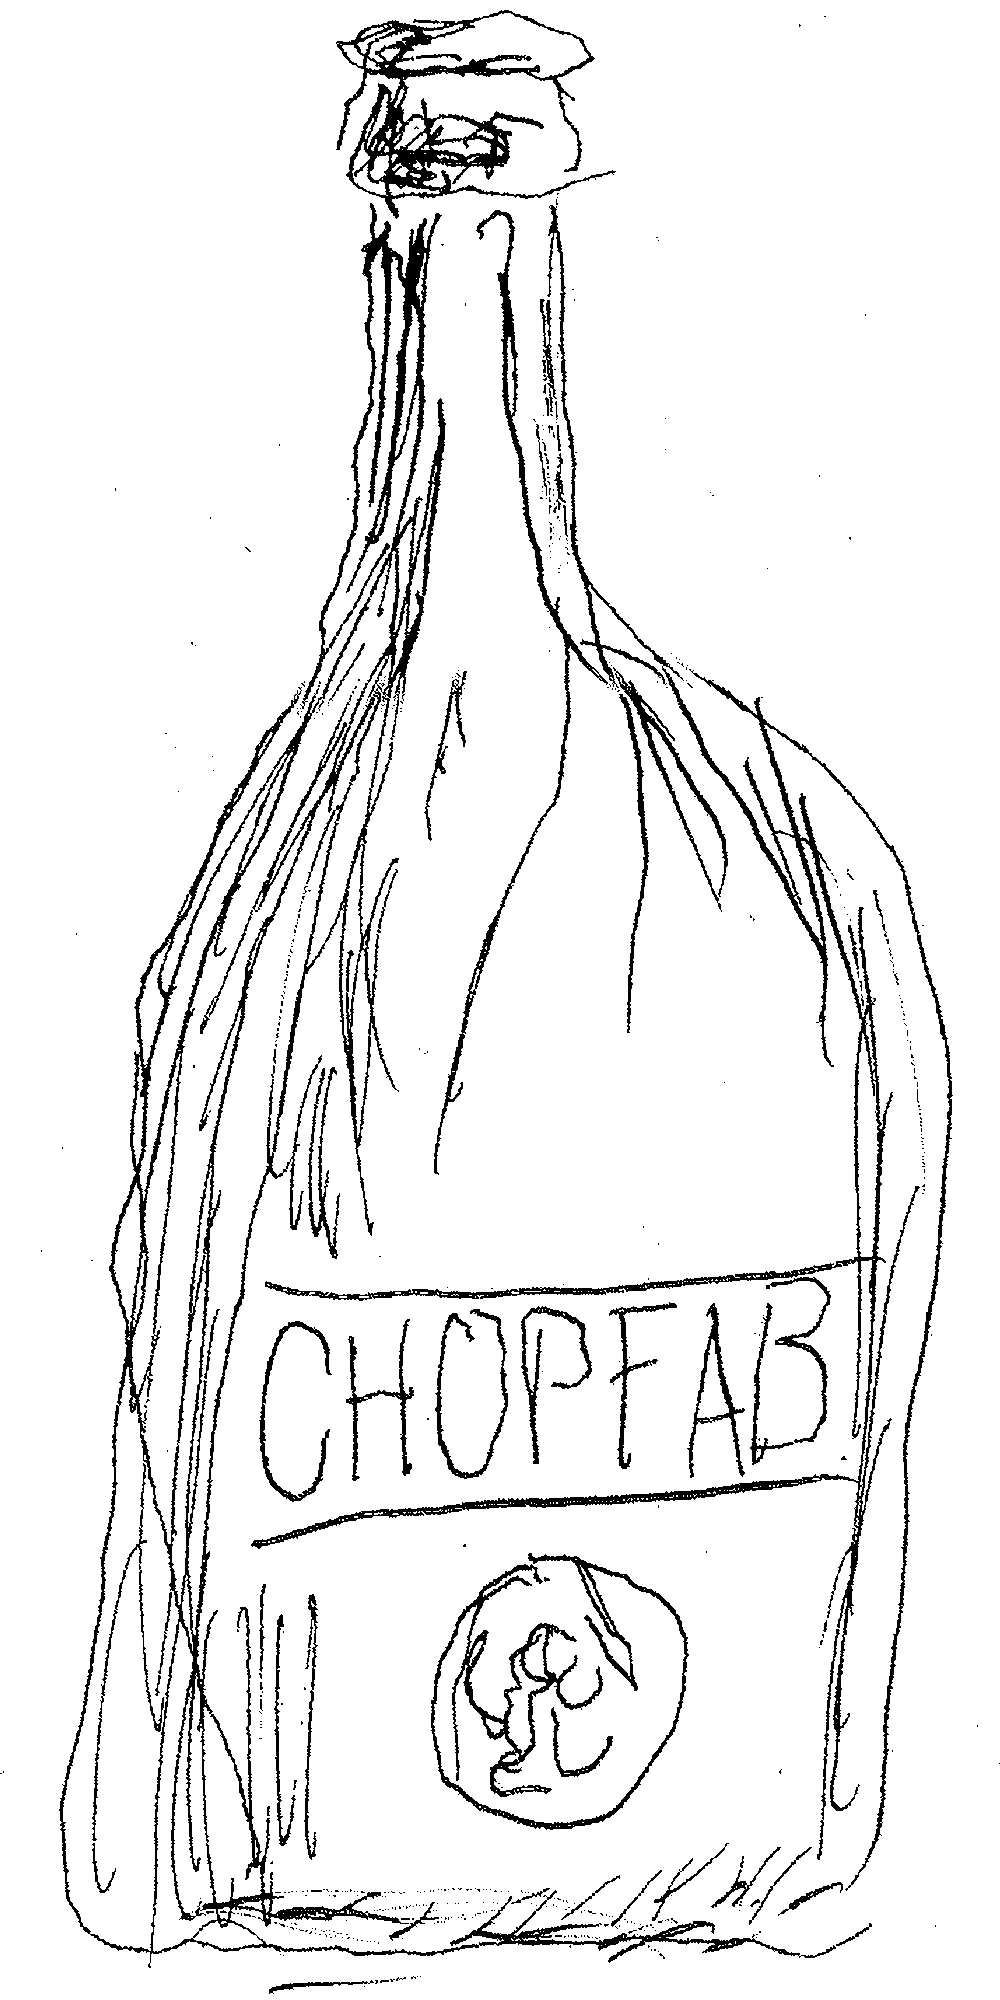
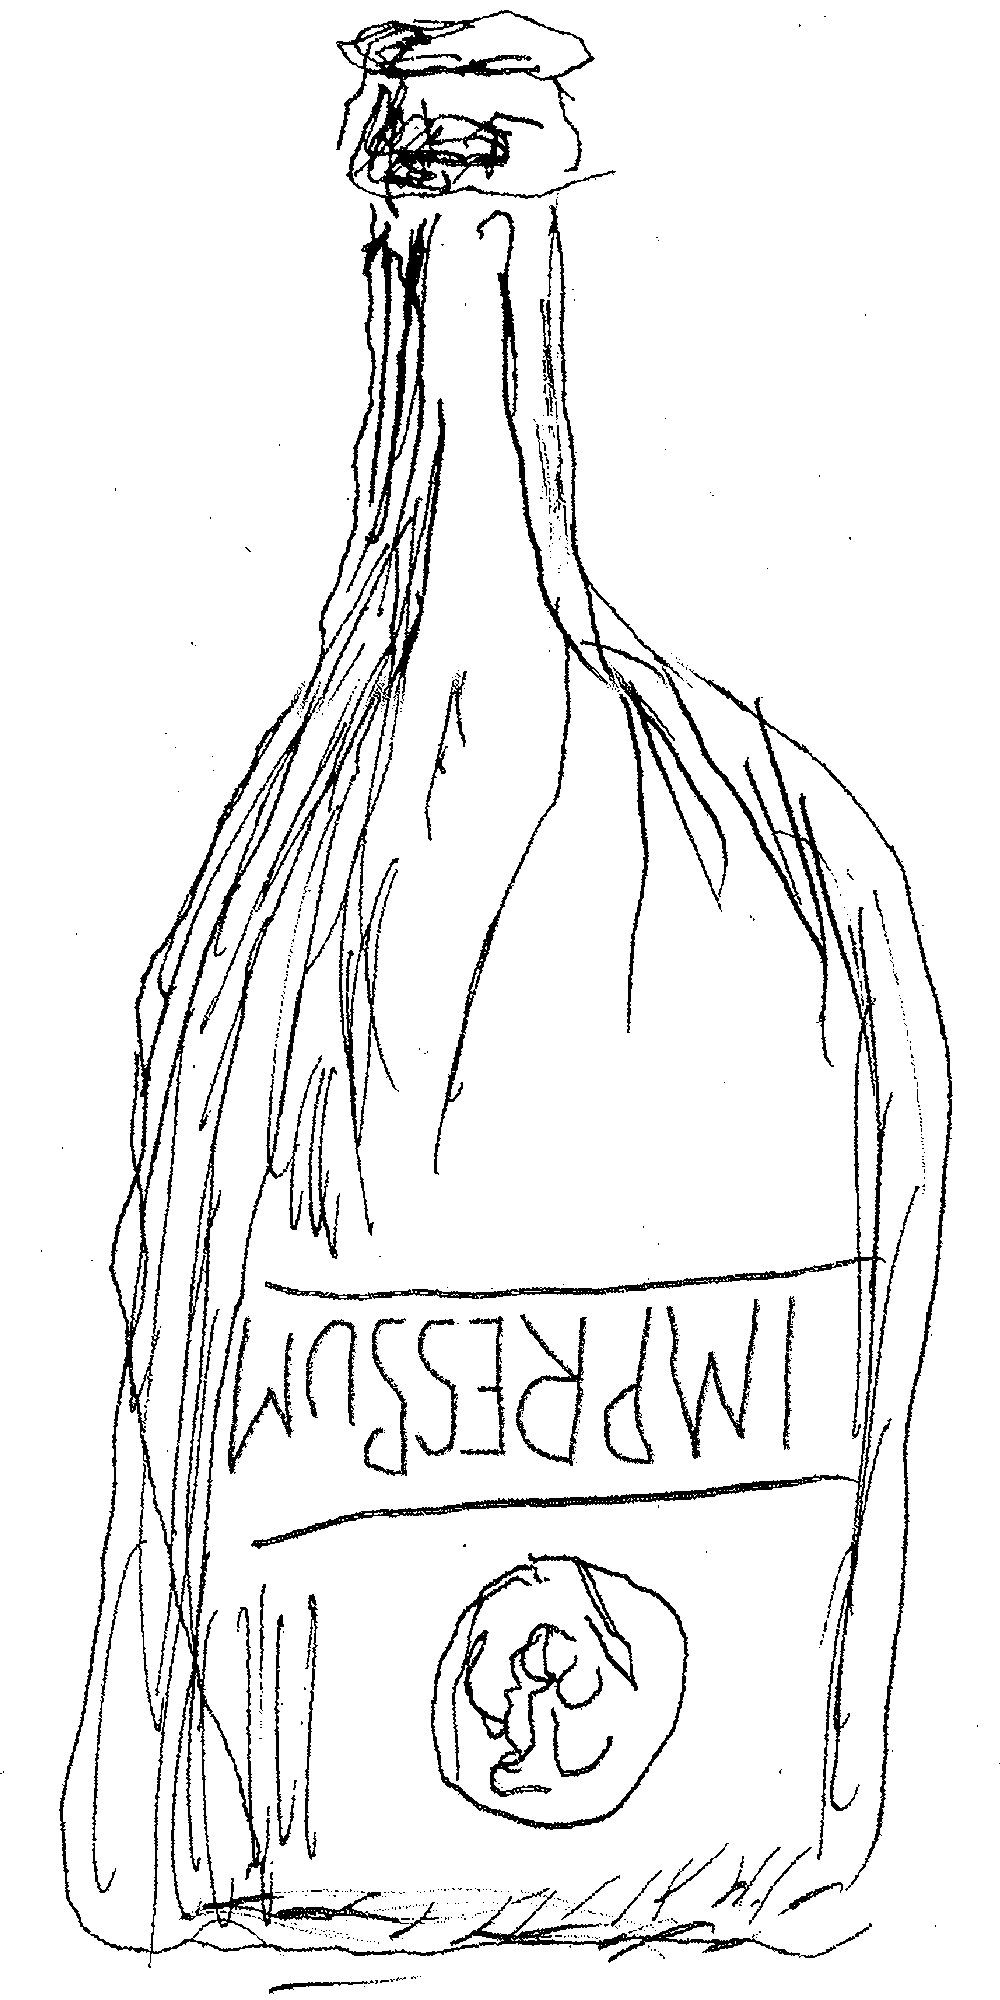
weiter gehts!

Changed region(s): [[0.31, 0.651, 0.837, 0.744], [0.217, 0.651, 0.341, 0.744], [0.279, 0.744, 0.31, 0.775]]

diff --git a/index.html b/index.html
@@ -12,28 +12,32 @@
 
   <body>
 
-    <div class="grid-container">
+    <div class="grid-container fullcontainer align-middle">
 
-      <div class="grid-x grid-padding-x">
-        <div class="large-5 medium-5 small-10 large-offset-1 medium-offset-1 small-offset-1 column">
-          <img src="img/1-cool.png" alt="Cool">
+      <div>
+        <div class="grid-x grid-padding-x">
+          <div class="beat large-5 medium-5 small-10 large-offset-1 medium-offset-1 small-offset-1 column">
+            <img src="img/1-cool.png" alt="Cool">
+          </div>
+          <div class="beat large-5 medium-5 small-8 large-offset-0 medium-offset-0 small-offset-2 column">
+            <img src="img/2-yeah.png" alt="Yeah">
+          </div>
         </div>
-        <div class="large-5 medium-5 small-8 large-offset-0 medium-offset-0 small-offset-2 column">
-          <img src="img/2-yeah.png" alt="Yeah">
+
+        <div class="grid-x grid-padding-x">
+          <div class="beat large-8 medium-8 small-12 large-offset-2 medium-offset-2 small-offset-0 column">
+            <img src="img/3-techno.png" alt="Techno">
+          </div>
+        </div>
+
+        <div class="grid-x grid-padding-x">
+          <div class="large-6 medium-6 small-8 large-offset-3 medium-offset-3 small-offset-2 column">
+            <img src="img/4-today.png" alt="Das Heute von Gestern">
+          </div>
         </div>
       </div>
 
-      <div class="grid-x grid-padding-x">
-        <div class="large-8 medium-8 small-12 large-offset-2 medium-offset-2 small-offset-0 column">
-          <img src="img/3-techno.png" alt="Techno">
-        </div>
-      </div>
 
-      <div class="grid-x grid-padding-x">
-        <div class="large-6 medium-6 small-8 large-offset-3 medium-offset-3 small-offset-2 column">
-          <img src="img/4-today.png" alt="Das Heute von Gestern">
-        </div>
-      </div>
 
     </div>
 
@@ -61,7 +65,7 @@
     </a>
         </div>
         <div class="large-3 medium-3 small-6 cell">
-          <a href="6-waste.html"><img src="img/6-waste.png" alt="clean!" class="wiggle-me"></a>
+          <a href="6-waste.html"><img src="img/6-waste.png" alt="clean!" id="imgHover"></a>
         </div>
         <div class="large-3 medium-3 small-6 cell">
           <a href="7-waste.html"><img class="rotate" src="img/7-waste.png" alt="clean!"></a>
@@ -76,7 +80,7 @@
           <a href="9-waste.html"><img src="img/9-waste.png" alt="clean!" class="wiggle-me"></a>
         </div>
         <div class="large-3 medium-3 small-6 cell">
-          <a href="10-waste.html"><img src="img/10-waste.png" alt="clean!" class="wiggle-me"></a>
+          <a href="10-waste.html"><img src="img/10-waste.png" alt="clean!" class="wiggle-me-more"></a>
         </div>
         <div class="large-3 medium-3 small-6 cell">
           <a href="11-waste.html"><img src="img/11-waste.png" alt="clean!" class="wiggle-me"></a>
@@ -88,13 +92,13 @@
 
       <div class="grid-x grid-padding-x">
         <div class="large-4 medium-4 small-4 cell">
-          <img src="img/13-waste.png" alt="clean!" class="wiggle-me">
+          <a href="13-impressum.html"><img src="img/13-waste.png" alt="clean!" class="rotate"></a>
         </div>
         <div class="large-4 medium-4 small-4 cell">
-          <img src="img/14-waste.png" alt="clean!" class="wiggle-me">
+          <a href="14-about.html"><img src="img/14-waste.png" alt="clean!" id="imgHover"></a>
         </div>
         <div class="large-4 medium-4 small-4 cell">
-          <img src="img/15-waste.png" alt="clean!" class="wiggle-me">
+          <a href="15-contact.html"><img src="img/15-waste.png" alt="clean!" class="wiggle-me"></a>
         </div>
       </div>
 

diff --git a/css/app.css b/css/app.css
@@ -70,8 +70,10 @@ p {
   min-height: 100%
 }
 
+#imgHover:hover { margin-top: -15px; }
+
 img.rotate {
-  border-radius: 50%;
+  border-radius: 100%;
   -webkit-transition: -webkit-transform .5s ease-in-out;
           transition:         transform .5s ease-in-out;
 }
@@ -119,3 +121,39 @@ img.rotate:hover {
 @-webkit-keyframes wiggle{0%{-webkit-transform:rotate(3deg);}50%{-webkit-transform:rotate(-3deg);}100%{-webkit-transform:rotate(3deg);}}
 @keyframes wiggle{0%{transform:rotate(3deg);}50%{transform:rotate(-3deg);}100%{transform:rotate(3deg);}}
 .wiggle-me:hover{-ms-animation:wiggle .1s 2;-moz-animation:wiggle .1s 2;-webkit-animation:wiggle .1s 2;animation:wiggle .4s 2;}
+
+
+@-ms-keyframes wiggle{0%{-ms-transform:rotate(6deg);}50%{-ms-transform:rotate(-6deg);}100%{-ms-transform:rotate(6deg);}}
+@-moz-keyframes wiggle{0%{-moz-transform:rotate(6deg);}50%{-moz-transform:rotate(-6deg);}100%{-moz-transform:rotate(6deg);}}
+@-webkit-keyframes wiggle{0%{-webkit-transform:rotate(6deg);}50%{-webkit-transform:rotate(-6deg);}100%{-webkit-transform:rotate(6deg);}}
+@keyframes wiggle{0%{transform:rotate(6deg);}50%{transform:rotate(-6deg);}100%{transform:rotate(3deg);}}
+.wiggle-me-more:hover{-ms-animation:wiggle .3s 2;-moz-animation:wiggle .1s 3;-webkit-animation:wiggle .3s 2;animation:wiggle .3s 3;}
+
+
+
+@keyframes beat
+{
+  0%
+  {
+    transform: scale( .9 );
+  }
+  50%
+  {
+    transform: scale( 1 );
+  }
+
+  100%
+  {
+    transform: scale( .9 );
+  }
+}
+
+div.beat {
+  animation: beat .5s infinite;
+}
+
+
+.fullcontainer {
+  height: 100vh;
+  
+}

diff --git a/14-about.html b/14-about.html
@@ -1,0 +1,48 @@
+<!doctype html>
+<html class="no-js" lang="en" dir="ltr">
+  <head>
+    <meta charset="utf-8">
+    <meta http-equiv="x-ua-compatible" content="ie=edge">
+    <meta name="viewport" content="width=device-width, initial-scale=1.0">
+    <title>Cool Yeah Techno</title>
+    <link rel="stylesheet" href="css/foundation.css">
+    <link rel="stylesheet" href="css/app.css">
+  </head>
+
+
+
+  <body>
+
+    <div class="grid-container">
+
+      <div class="grid-x grid-padding-x">
+        <div class="large-5 medium-5 small-10 large-offset-1 medium-offset-1 small-offset-1 column">
+          <img src="img/1-cool.png" alt="Cool">
+        </div>
+        <div class="large-5 medium-5 small-8 large-offset-0 medium-offset-0 small-offset-2 column">
+          <img src="img/2-yeah.png" alt="Yeah">
+        </div>
+      </div>
+
+      <div class="grid-x grid-padding-x">
+        <div class="large-8 medium-8 small-12 large-offset-2 medium-offset-2 small-offset-0 column">
+          <img src="img/3-techno.png" alt="Techno">
+        </div>
+      </div>
+
+      <div class="grid-x grid-padding-x">
+        <div class="large-6 medium-6 small-8 large-offset-3 medium-offset-3 small-offset-2 column">
+          <img src="img/4-today.png" alt="Das Heute von Gestern">
+        </div>
+      </div>
+
+    </div>
+
+
+
+    <script src="js/vendor/jquery.js"></script>
+    <script src="js/vendor/what-input.js"></script>
+    <script src="js/vendor/foundation.js"></script>
+    <script src="js/app.js"></script>
+  </body>
+</html>

diff --git a/15-contact.html b/15-contact.html
@@ -1,0 +1,48 @@
+<!doctype html>
+<html class="no-js" lang="en" dir="ltr">
+  <head>
+    <meta charset="utf-8">
+    <meta http-equiv="x-ua-compatible" content="ie=edge">
+    <meta name="viewport" content="width=device-width, initial-scale=1.0">
+    <title>Cool Yeah Techno</title>
+    <link rel="stylesheet" href="css/foundation.css">
+    <link rel="stylesheet" href="css/app.css">
+  </head>
+
+
+
+  <body>
+
+    <div class="grid-container">
+
+      <div class="grid-x grid-padding-x">
+        <div class="large-5 medium-5 small-10 large-offset-1 medium-offset-1 small-offset-1 column">
+          <img src="img/1-cool.png" alt="Cool">
+        </div>
+        <div class="large-5 medium-5 small-8 large-offset-0 medium-offset-0 small-offset-2 column">
+          <img src="img/2-yeah.png" alt="Yeah">
+        </div>
+      </div>
+
+      <div class="grid-x grid-padding-x">
+        <div class="large-8 medium-8 small-12 large-offset-2 medium-offset-2 small-offset-0 column">
+          <img src="img/3-techno.png" alt="Techno">
+        </div>
+      </div>
+
+      <div class="grid-x grid-padding-x">
+        <div class="large-6 medium-6 small-8 large-offset-3 medium-offset-3 small-offset-2 column">
+          <img src="img/4-today.png" alt="Das Heute von Gestern">
+        </div>
+      </div>
+
+    </div>
+
+
+
+    <script src="js/vendor/jquery.js"></script>
+    <script src="js/vendor/what-input.js"></script>
+    <script src="js/vendor/foundation.js"></script>
+    <script src="js/app.js"></script>
+  </body>
+</html>

diff --git a/13-impressum.html b/13-impressum.html
@@ -1,0 +1,35 @@
+<!doctype html>
+<html class="no-js" lang="en" dir="ltr">
+  <head>
+    <meta charset="utf-8">
+    <meta http-equiv="x-ua-compatible" content="ie=edge">
+    <meta name="viewport" content="width=device-width, initial-scale=1.0">
+    <title>Cool Yeah Techno</title>
+    <link rel="stylesheet" href="css/foundation.css">
+    <link rel="stylesheet" href="css/app.css">
+  </head>
+
+
+
+  <body>
+
+    <div class="grid-container">
+
+      <div class="grid-x grid-padding-x">
+        <div class="large-10 medium-10 small-10 cell">
+          <p><b>Marius Becker</b></p><p>Interaction Design HF </br>Schule für Gestaltung Zürich SfGZ </br>Ausstellungsstrasse 104 </br>8005 Zürich</p>
+          <p><a href="mailto:marius.becker@stud.sfgz.ch">marius.becker@stud.sfgz.ch</a></p>
+          <img src="img/kittens.gif" alt="kitten!">
+        </div>
+      </div>
+
+    </div>
+
+
+
+    <script src="js/vendor/jquery.js"></script>
+    <script src="js/vendor/what-input.js"></script>
+    <script src="js/vendor/foundation.js"></script>
+    <script src="js/app.js"></script>
+  </body>
+</html>
